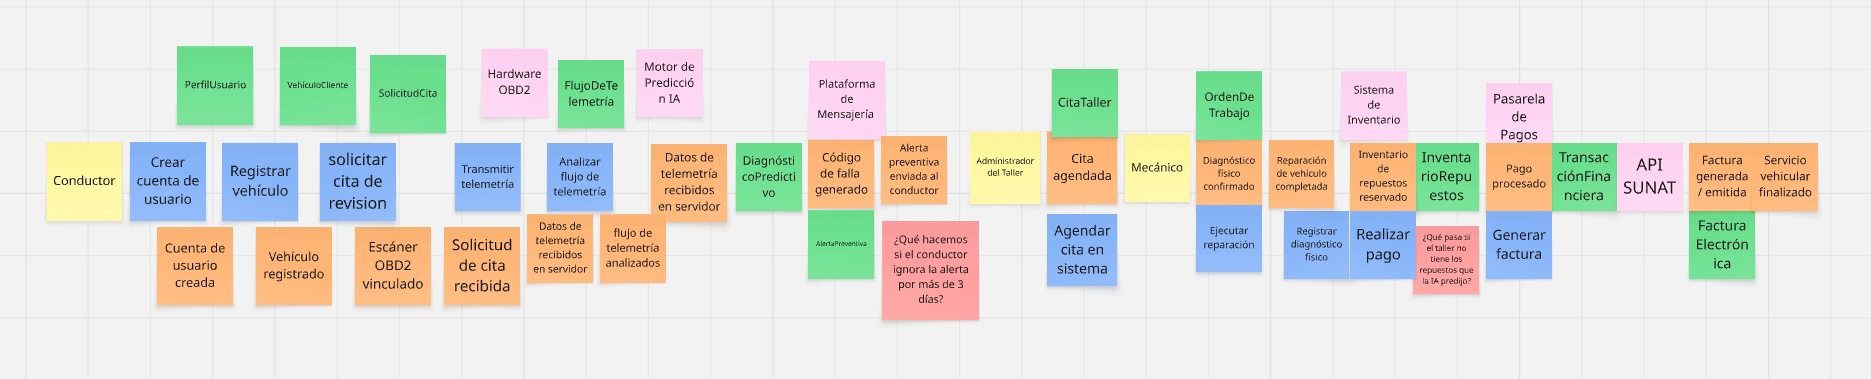
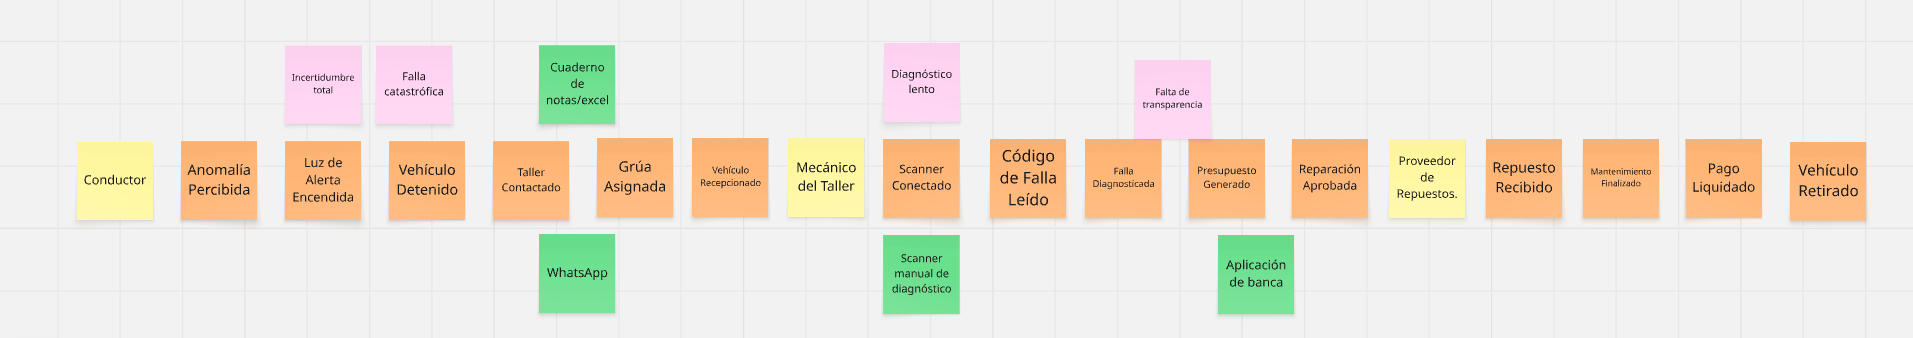
fix(docs): update big picture section

diff --git a/report/21-Big-Picture-Event-Storming.md b/report/21-Big-Picture-Event-Storming.md
@@ -2,8 +2,14 @@
 
 &emsp;&emsp;&emsp;&emsp;En esta sección se presenta el resultado del Big Picture Event Storming, una técnica colaborativa utilizada para mapear los eventos clave del dominio de atelier. Este proceso permitió visualizar el flujo completo del sistema, desde la captación de telemetría hasta la gestión administrativa, facilitando la identificación de procesos críticos y oportunidades de optimización en el modelo de negocio.
 
-**Figura**
+**Figura X**
 
-*Tablero de Big Picture Event Storming de atelier*
+*Tablero de Big Picture Event Storming de atelier - Parte 1*
 
-![](assets/Big-Event-Storming.png "Big Picture Event Storming de atelier")
+![](assets/Big-Event-Storming-1.png "Big Picture Event Storming de atelier Parte 1")
+
+**Figura X**
+
+*Tablero de Big Picture Event Storming de atelier - Parte 2*
+
+![](assets/Big-Event-Storming-2.png "Big Picture Event Storming de atelier Parte 2")
